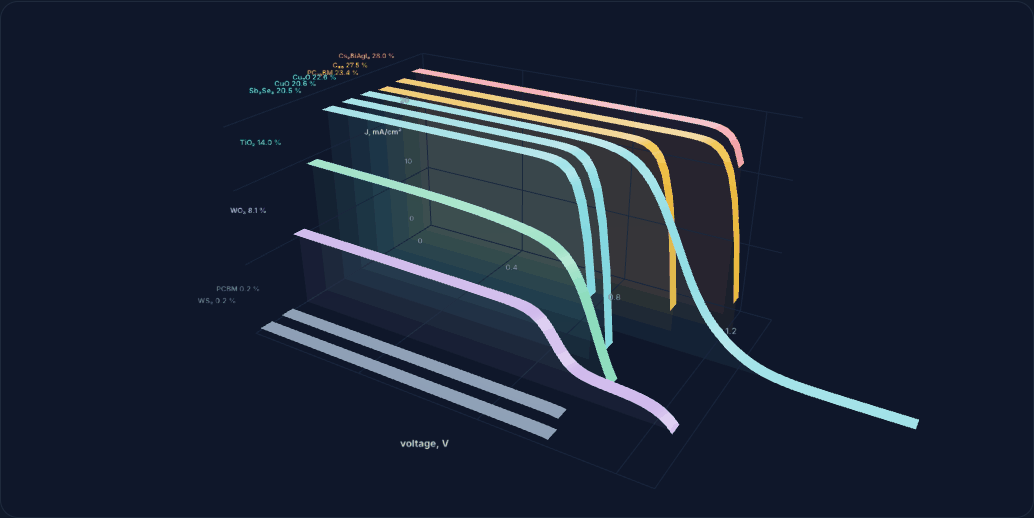
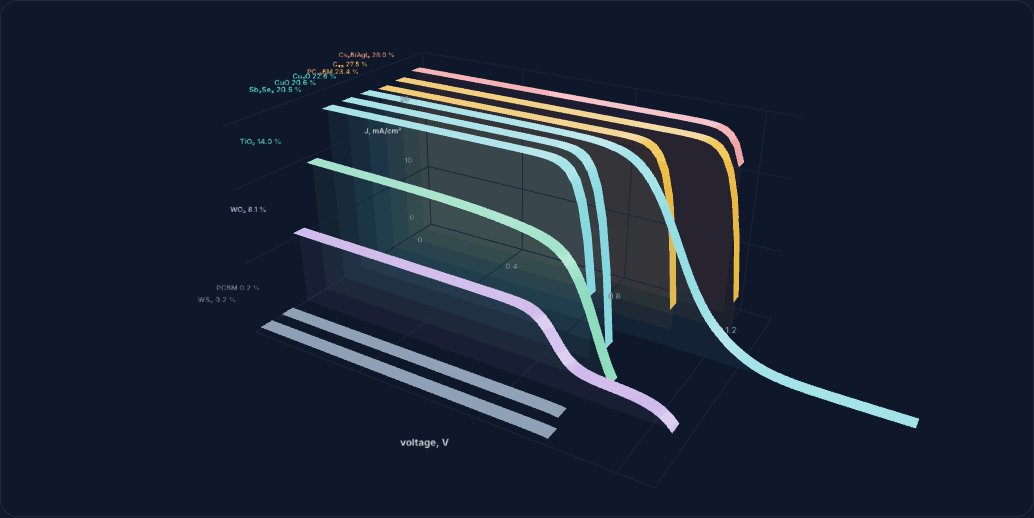
Re-render the fallbacks and both-theme screenshots with the stack scene and the temperature fix; frame the stack

diff --git a/docs/assets/body.js b/docs/assets/body.js
@@ -23,8 +23,8 @@ Viz.view('[data-viz="stack"]', v => {
   const ex = Viz.exploded(v, parts);
   v.update = vv => { ex.draw(vv.p); labs.forEach((l, i) => l.material.opacity = Math.max(0, (vv.p - i * .12 - .2) * 4)); const b = Math.max(0, Math.min(1, (vv.p - .55) / .4)); lEc.geometry.setDrawRange(0, Math.floor(ec.length * b)); lEv.geometry.setDrawRange(0, Math.floor(ev.length * b)); lNi.geometry.setDrawRange(0, b > .95 ? 2 : 0); bl.forEach(l => l.material.opacity = b); return false; };
   v.hover = hit => { const s = hit.object.userData; return s && s.name ? `<b>${s.name}, ${s.t_um} µm</b>${s.role} · ${s.type} · E<sub>g</sub> ${s.Eg} eV, χ ${s.chi} eV` : null; };
-  v.rot = .25; v.tilt = .15;
-}, { camera: [0, 1.4, 7.6], target: [.2, -.1, 0], fov: 34 });
+  v.rig.position.x = .9; v.rot = .25; v.tilt = .15;
+}, { camera: [0, 1.4, 8.2], target: [.2, -.1, 0], fov: 34 });
 
 /* ---------- 2. the ten-ETL screen ---------- */
 Viz.view('[data-viz="etl"]', v => {

diff --git a/docs/qa/README.md b/docs/qa/README.md
@@ -17,7 +17,7 @@ Lighthouse (desktop preset): performance 98, accessibility 98, best practices 10
 
 | Theme | Console errors | Failed requests | Images loaded | Transfer (bytes) | Body scenes captured |
 |---|---|---|---|---|---|
-| dark | 2 | 0 | 0/0 | 481,136 | etl, jv |
-| light | 2 | 0 | 0/0 | 482,625 | etl, jv |
+| dark | 0 | 0 | 0/0 | 497,363 | stack, etl |
+| light | 0 | 0 | 0/0 | 485,063 | stack, etl |
 
 Files: `light/` and `dark/` hold `<page>-hero.png`, `<page>-scene1-*.png`, `<page>-scene2-*.png` and `<page>-mobile-375-hero.png`; `lighthouse.report.html` and `.json` are the Lighthouse run; `qa.json` is the machine-readable summary.
